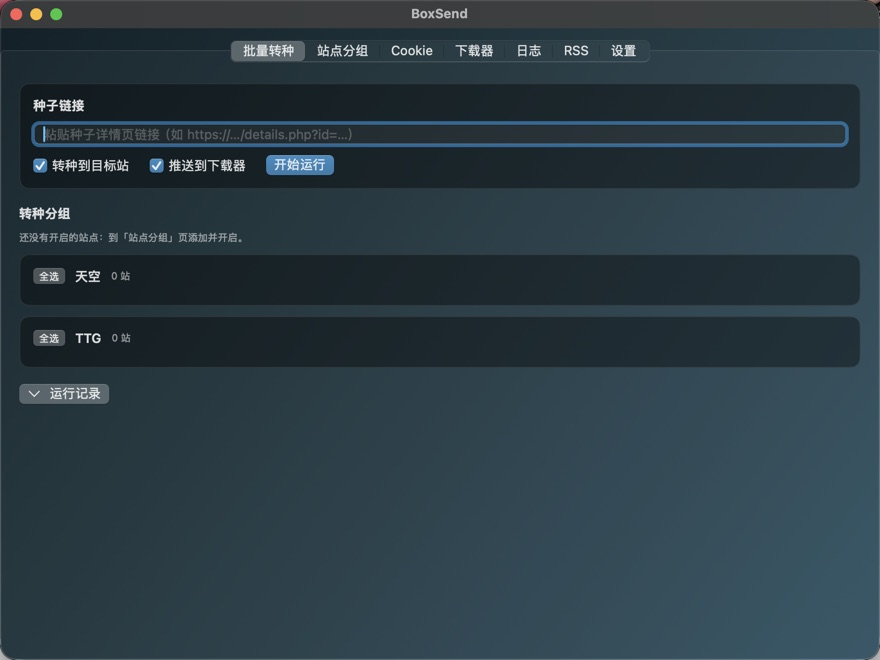
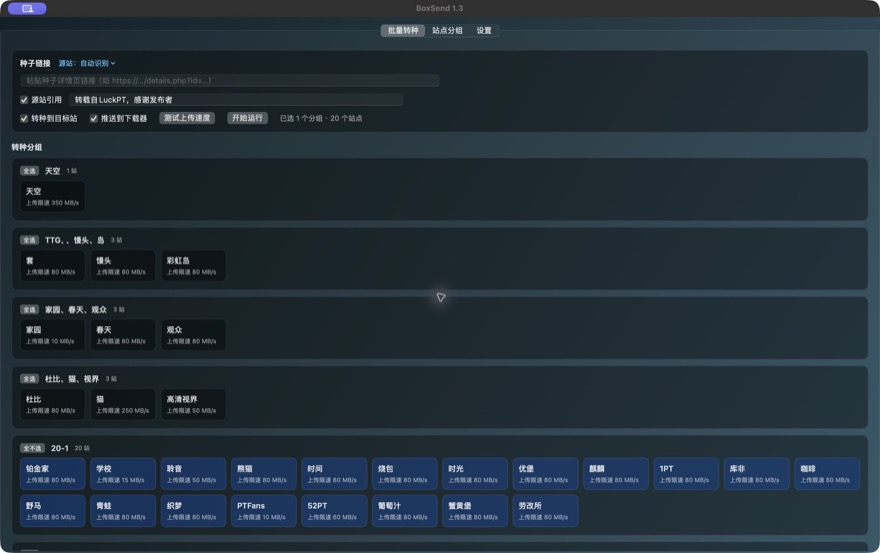
教程配图重拍，并补上 Cloudflare Workers 反代 TMDB 那一节
- 五张配图按当前界面重拍（深空蓝、无壁纸），配置里的地址/密钥换成脱敏示例值
- AppPaths 认 BOXSEND_DATA_DIR：截图和调试可以拿另一份配置跑，不动本机那份
- 第 6 节改写为 TMDB 反查 + 自建网关：de5.net 免费域名注册 → Cloudflare 建站拿 NS
  → 回 dnshe 交子域解析权 → Worker 按前缀反代 api.themoviedb.org → 绑自定义域名；
  附可复制的 Worker 脚本（mac section() 加 code:，Windows Sections 加 Code 字段）

diff --git a/Sources/BoxSendApp/Views.swift b/Sources/BoxSendApp/Views.swift
@@ -3029,13 +3029,32 @@ struct TutorialSheet: View {
                         "「批量转种」页「开始运行」左边有「测试上传速度」：随时点一下，实测速度显示在按钮下面那一行，不做自动判定——速度不理想就等一等再转，不测也能直接开转。",
                         "测速是在服务器上往公网推数据（默认每轮 64 MB、共两轮），只多花这一份上行；测速地址可换成自己的接收端。",
                     ])
-                    section("6. TMDB 链接自动反查", image: nil, steps: [
-                        "部分站点（如杜比）把 TMDB 链接设为必填，源站简介里没有 TMDB 时发种会被拒。",
-                        "「设置」页「TMDB 链接」卡片勾选「发种时自动补 TMDB 链接」：发种前用种子的 IMDb 号或豆瓣号去 TMDB 查条目号，填进目标站的 TMDB 输入框；查不到时留空，由你手动填写。",
-                        "国内直连 api.themoviedb.org 常不通：在「API 代理网关地址」填自己的网关，留空即走官方接口；地址要写到版本号那一层（末尾带 /3，如 https://gw.example.com/tmdb0512/3），漏写会先按你填的试、404 再自动补 /3 重试。",
-                        "网关只是转发时仍要填 TMDB 的 API Key；只有网关自己代填 Key 时才留空。",
-                        "「测试查询」用一条固定片例验证网关是否可用。",
-                    ])
+                    section("6. TMDB 反查与自建网关（Cloudflare Workers）", steps: [
+                        "部分站点（如杜比）把 TMDB 链接设为必填，源站简介里没有 TMDB 时发种会被拒；勾选「发种时自动补 TMDB 链接」后，发种前用种子的 IMDb 号或豆瓣号去查条目号填进目标站，查不到就留空由你手填。",
+                        "国内直连 api.themoviedb.org 常不通，拿自己的网关顶上去：「API 代理网关地址」留空即走官方接口；地址要写到版本号那一层（末尾带 /3，如 https://tmdb.我的名字.de5.net/tmdb0512/3），漏写软件会自动补一次再试。网关只做转发时仍要填 TMDB 的 API Key，只有网关代填 Key 时才留空。",
+                        "① 拿域名：在 my.dnshe.com 注册账号（邮箱 + 密码，点一下邮箱验证），进会员中心「免费域名」申请一个 de5.net 的名字（如 myname，得到 myname.de5.net）；免费域名一年到期要在面板里点一次续期。",
+                        "② 接入 Cloudflare：dash.cloudflare.com 注册后点「Add a site」，主机名填完整那串 myname.de5.net（Cloudflare 允许把这种子域当成一个独立站点/区域），选 Free 计划，它会给你两台 NS，形如 evan.ns.cloudflare.com / irma.ns.cloudflare.com。",
+                        "③ 交出解析权：回 my.dnshe.com 的域名管理，把这两台 NS 填进该域名的独立解析 / NS 托管并保存（父域 de5.net 的 NS 仍是 dnshe 的，靠这条子域 NS 记录把解析权交给 Cloudflare）。等几十分钟后用 dig NS myname.de5.net 验，返回 cloudflare 那两台就是生效了。",
+                        "④ 部署 Worker：Cloudflare 控制台「Workers & Pages → Create → Worker」，把下面这段贴进去 Deploy。UPSTREAM 固定是 TMDB 官方接口，PREFIX 是自己随手起的暗号段（如 /tmdb0512），只有带这个前缀的路径才转发，别人不知道前缀就蹭不动你的额度。",
+                        "⑤ 绑域名：该 Worker 的 Settings → Domains & Routes → Add → Custom domain，填 tmdb.myname.de5.net（主机名 tmdb），Cloudflare 会自动写 CNAME、签 HTTPS 证书，保持橙云（Proxied）即可；证书一般几十秒到几分钟就绪。",
+                        "⑥ 填回软件：网关地址填 https://tmdb.myname.de5.net/tmdb0512/3，点「测试查询」应回成功；浏览器直接打开同地址加 ?query=city&api_key=你的Key 也能出 JSON。不带 Key 会回 401，那说明网关已通、只是缺 Key。",
+                        "Workers 免费版每天 10 万次请求，转种这点查询量远远用不完；域名一年一续，别忘了续。",
+                    ], code: """
+const UPSTREAM = "https://api.themoviedb.org";
+const PREFIX = "/tmdb0512";              // 自己的暗号段，与网关地址里那段保持一致
+export default {
+  async fetch(req, env) {
+    const u = new URL(req.url);
+    if (!u.pathname.startsWith(PREFIX)) return new Response("no", { status: 404 });
+    const url = new URL(UPSTREAM + u.pathname.slice(PREFIX.length) + u.search);
+    const key = env.TMDB_KEY || "";      // 配在 Worker 的 Variables 里；不配就得在软件里填 Key
+    if (key && !url.searchParams.has("api_key")) url.searchParams.set("api_key", key);
+    const r = await fetch(url, { method: req.method, headers: req.headers,
+                                 body: req.body, redirect: "follow" });
+    return new Response(r.body, { status: r.status, headers: r.headers });
+  }
+}
+""")
                     section("7. 软件更新", image: nil, steps: [
                         "更新地址就是项目仓库 https://github.com/nandieling/box-send，「设置」页「软件更新」卡片能看到当前版本并检查新版本。",
                         "默认每次启动在后台查一次（只读 GitHub 的发布接口，不上传任何本机数据）；不想自动查就关掉「启动时自动检查新版本」，改成手动点「检查更新」。",
@@ -3051,7 +3070,7 @@ struct TutorialSheet: View {
                 .padding(2)
             }
             HStack {
-                Text("提示：截图为旧版界面示例，Cookie 与下载器现已并入「设置」页；外观随主题 / 壁纸变化。")
+                Text("提示：截图为深色主题示例，实际外观随「设置」页的主题 / 壁纸变化。")
                     .font(.caption).foregroundStyle(.secondary)
                 Spacer()
                 Button("关闭") { dismiss() }
@@ -3065,7 +3084,7 @@ struct TutorialSheet: View {
         .preferredColorScheme(model.theme.dark ? .dark : .light)
     }
 
-    private func section(_ title: String, image: String? = nil, steps: [String]) -> some View {
+    private func section(_ title: String, image: String? = nil, steps: [String], code: String? = nil) -> some View {
         VStack(alignment: .leading, spacing: 6) {
             Text(title).font(.headline)
             ForEach(Array(steps.enumerated()), id: \.offset) { i, step in
@@ -3075,6 +3094,14 @@ struct TutorialSheet: View {
                     Text(step).font(.footnote).foregroundStyle(.primary)
                         .fixedSize(horizontal: false, vertical: true)
                 }
+            }
+            if let code {
+                Text(code)
+                    .font(.system(.caption2, design: .monospaced))
+                    .textSelection(.enabled)
+                    .padding(8)
+                    .frame(maxWidth: .infinity, alignment: .leading)
+                    .background(RoundedRectangle(cornerRadius: 6).fill(Color.blockSurface(model.theme.dark)))
             }
             if let image {
                 tutorialImage(image)

diff --git a/Sources/BoxSendKit/Models/AppPaths.swift b/Sources/BoxSendKit/Models/AppPaths.swift
@@ -6,6 +6,12 @@ import Foundation
 ///   同目录 cookies.json / state.json / debug/           运行时数据
 public enum AppPaths {
     public static var dir: String {
+        // 开发/演示用的旁路：BOXSEND_DATA_DIR 指个空目录就能拿另一份配置跑，
+        // 不动本机那份（截教程配图时用的就是它）
+        if let over = ProcessInfo.processInfo.environment["BOXSEND_DATA_DIR"], !over.isEmpty {
+            try? FileManager.default.createDirectory(atPath: over, withIntermediateDirectories: true)
+            return over
+        }
         let fm = FileManager.default
         if let u = try? fm.url(for: .applicationSupportDirectory, in: .userDomainMask, appropriateFor: nil, create: true) {
             let base = u.appendingPathComponent("BoxSend", isDirectory: true)

diff --git a/windows/BoxSend.Windows/Dialogs/TutorialWindow.cs b/windows/BoxSend.Windows/Dialogs/TutorialWindow.cs
@@ -7,7 +7,7 @@ namespace BoxSend.Windows.Dialogs;
 /// <summary>使用教程（与 mac 版同一套说明，Windows 上不带配图）。分节写在这里，改一处两端对照着改。</summary>
 public sealed class TutorialWindow : Window
 {
-    private static readonly (string Title, string[] Steps)[] Sections =
+    private static readonly (string Title, string[] Steps, string? Code)[] Sections =
     {
         ("1. 添加站点与分组", new[]
         {
@@ -17,7 +17,7 @@ public sealed class TutorialWindow : Window
             "组内排序：拖卡片右侧的把手拖到另一张卡片上，或在把手左边输入序号回车排到第几位（与 mac 版一致）。",
             "顶部「检测全部 cookie」批量检查 cookie / API Key 有效性，每张卡片上直接显示结果，检测中可「停止检测」；「移除站点」「移除分组」均需两次确认。",
             "支持「帖子免费1天」的站点（如猫站）卡片上会出现「发种后免费一天」开关：打开后发种成功就自动点一次站内免费按钮（要扣站内积分）；帖子已在免费满一天时不重复扣。",
-        }),
+        }, null),
         ("2. Cookie：PT-depiler Gist 与 CookieCloud", new[]
         {
             "两路都是「浏览器插件采集 → 云端存一份密文 → 本软件拉回来」：Gist 存 GitHub，CookieCloud 存自己的服务器。两路互为补充，某一站在一路过期时同步会用另一路补上，本地检测有效的 cookie 不会被覆盖。",
@@ -28,7 +28,7 @@ public sealed class TutorialWindow : Window
             "浏览器装 CookieCloud 扩展（easychen/CookieCloud，Chrome/Edge/Firefox 都能装），设置里填服务器地址，点「上传」后扩展会显示自己的 KEY（一串 UUID）和你设的加密密码。",
             "本软件「CookieCloud 同步」填服务器地址、KEY（UUID）、端对端加密密码（必须与扩展里的密码一致）：拉回 GET {服务器}/get/{KEY} 后在本地解密，再覆盖本地 cookie。",
             "两张卡片的「轮询」最小 5 分钟，打开「自动定时同步」到点自动拉；想立刻拉一次点该卡片的「立即同步」，或到「站点分组」页顶部点「同步 Cookie」两路一起同步，同步完自动复检 cookie。",
-        }),
+        }, null),
         ("3. 批量转种", new[]
         {
             "「批量转种」页粘贴种子详情页链接，勾选「转种到目标站」与「推送到下载器」。",
@@ -37,7 +37,7 @@ public sealed class TutorialWindow : Window
             "按分组顺序执行：获取种子 → 依次上传到组内已开启站点（限速取站点设置，新增时默认跟分组限速）→ 转种成功的种子自动推送到下载器。",
             "需要注明转种来源时勾选「源站引用」并填写文本：软件会把这段文字用引用块加在每个目标站简介最上面；源站自带引用的不用勾。",
             "页面下半部分左栏是逐站转种结果，右栏是下载器推送结果。",
-        }),
+        }, null),
         ("4. 推送到下载器", new[]
         {
             "「设置」页「下载器」填 Web UI 地址、用户名与密码：qBittorrent 要在首选项里打开 Web UI 并取消「仅本机 localhost」，或经 VPS 隧道 / 反向代理暴露出来。",
@@ -46,7 +46,7 @@ public sealed class TutorialWindow : Window
             "保存路径留空用下载器默认目录，分类留空不打标签；「添加后跳过校验」按自己的下载习惯决定。",
             "「VPS 剩余空间」与「超过剩余空间时」的提醒 / 跳过策略是推送前的空间保护：qB WebAPI 读不到磁盘容量，这个数字要自己维护。",
             "转种成功的种子自动推到这台下载器；逐站上传限速在「站点分组」页按分组或站点填。",
-        }),
+        }, null),
         ("5. 转种服务器测速（SSH）", new[]
         {
             "部分服务器 24 小时上传流量到 2T 后，会把上行悄悄压到 20 MB/s 左右：站点照样能发种，但整批下载都变慢。",
@@ -54,28 +54,50 @@ public sealed class TutorialWindow : Window
             "「测试连接并测速」立刻连一次：显示服务器主机名与每轮实测速度。",
             "「批量转种」页「开始运行」左边有「测试上传速度」：随时点一下，实测速度显示在按钮下面那一行，不做自动判定——速度不理想就等一等再转，不测也能直接开转。",
             "测速是在服务器上往公网推数据（默认每轮 64 MB、共两轮），只多花这一份上行；测速地址可换成自己的接收端。",
-        }),
-        ("6. TMDB 链接自动反查", new[]
+        }, null),
+        ("6. TMDB 反查与自建网关（Cloudflare Workers）", new[]
         {
-            "部分站点（如杜比）把 TMDB 链接设为必填，源站简介里没有 TMDB 时发种会被拒。",
-            "「设置」页勾选「发种时自动补 TMDB 链接」：发种前用种子的 IMDb 号或豆瓣号去查条目号，填进目标站的 TMDB 输入框；查不到时留空，由你手动填写。",
-            "国内直连 api.themoviedb.org 常不通：在「API 代理网关地址」填自己的网关，留空即走官方接口；地址要写到版本号那一层（末尾带 /3，如 https://gw.example.com/tmdb0512/3），漏写会先按你填的试、404 再自动补 /3 重试。",
-            "网关只是转发时仍要填 TMDB 的 API Key；只有网关自己代填 Key 时才留空。",
-            "「测试查询」用一条固定片例验证网关是否可用。",
-        }),
+            "部分站点（如杜比）把 TMDB 链接设为必填，源站简介里没有 TMDB 时发种会被拒；勾选「发种时自动补 TMDB 链接」后，发种前用种子的 IMDb 号或豆瓣号去查条目号填进目标站，查不到就留空由你手填。",
+            "国内直连 api.themoviedb.org 常不通，拿自己的网关顶上去：「API 代理网关地址」留空即走官方接口；地址要写到版本号那一层（末尾带 /3，如 https://tmdb.我的名字.de5.net/tmdb0512/3），漏写软件会自动补一次再试。网关只做转发时仍要填 TMDB 的 API Key，只有网关代填 Key 时才留空。",
+            "① 拿域名：在 my.dnshe.com 注册账号（邮箱 + 密码，点一下邮箱验证），进会员中心「免费域名」申请一个 de5.net 的名字（如 myname，得到 myname.de5.net）；免费域名一年到期要在面板里点一次续期。",
+            "② 接入 Cloudflare：dash.cloudflare.com 注册后点「Add a site」，主机名填完整那串 myname.de5.net（Cloudflare 允许把这种子域当成一个独立站点/区域），选 Free 计划，它会给你两台 NS，形如 evan.ns.cloudflare.com / irma.ns.cloudflare.com。",
+            "③ 交出解析权：回 my.dnshe.com 的域名管理，把这两台 NS 填进该域名的独立解析 / NS 托管并保存（父域 de5.net 的 NS 仍是 dnshe 的，靠这条子域 NS 记录把解析权交给 Cloudflare）。等几十分钟后用 dig NS myname.de5.net 验，返回 cloudflare 那两台就是生效了。",
+            "④ 部署 Worker：Cloudflare 控制台「Workers & Pages → Create → Worker」，把下面这段贴进去 Deploy。UPSTREAM 固定是 TMDB 官方接口，PREFIX 是自己随手起的暗号段（如 /tmdb0512），只有带这个前缀的路径才转发，别人不知道前缀就蹭不动你的额度。",
+            "⑤ 绑域名：该 Worker 的 Settings → Domains & Routes → Add → Custom domain，填 tmdb.myname.de5.net（主机名 tmdb），Cloudflare 会自动写 CNAME、签 HTTPS 证书，保持橙云（Proxied）即可；证书一般几十秒到几分钟就绪。",
+            "⑥ 填回软件：网关地址填 https://tmdb.myname.de5.net/tmdb0512/3，点「测试查询」应回成功；浏览器直接打开同地址加 ?query=city&api_key=你的Key 也能出 JSON。不带 Key 会回 401，那说明网关已通、只是缺 Key。",
+            "Workers 免费版每天 10 万次请求，转种这点查询量远远用不完；域名一年一续，别忘了续。",
+        }, WorkerCode),
         ("7. 软件更新", new[]
         {
             "更新地址就是项目仓库 https://github.com/nandieling/box-send，「设置」页「软件更新」卡片能看到当前版本并检查新版本。",
             "默认每次启动在后台查一次（只读 GitHub 的发布接口，不上传任何本机数据）；不想自动查就关掉「启动时自动检查」。",
             "发现新版本点「下载 x.y.z 安装包」，装新的即可：站点、Cookie、限速与主题设置都存在本机，升级不会被动到。",
-        }),
+        }, null),
         ("8. 外观设置", new[]
         {
             "「设置」页选择渐变主题；主题渐变、强调色与明暗模式覆盖窗口、页签与所有弹窗。",
             "可添加背景图片（PNG/JPG）并用滑块调整透明度，不改变窗口与各区块的大小比例。",
             "窗口最大化时顶部页签会自动放大一档，方便远距离点选。",
-        }),
+        }, null),
     };
+
+    /// TMDB 反代 Worker 脚本（与 mac 版教程同一段）
+    private const string WorkerCode = """
+const UPSTREAM = "https://api.themoviedb.org";
+const PREFIX = "/tmdb0512";              // 自己的暗号段，与网关地址里那段保持一致
+export default {
+  async fetch(req, env) {
+    const u = new URL(req.url);
+    if (!u.pathname.startsWith(PREFIX)) return new Response("no", { status: 404 });
+    const url = new URL(UPSTREAM + u.pathname.slice(PREFIX.length) + u.search);
+    const key = env.TMDB_KEY || "";      // 配在 Worker 的 Variables 里；不配就得在软件里填 Key
+    if (key && !url.searchParams.has("api_key")) url.searchParams.set("api_key", key);
+    const r = await fetch(url, { method: req.method, headers: req.headers,
+                                 body: req.body, redirect: "follow" });
+    return new Response(r.body, { status: r.status, headers: r.headers });
+  }
+}
+""";
 
     public TutorialWindow()
     {
@@ -86,7 +108,7 @@ public sealed class TutorialWindow : Window
         Background = PromptWindow.Themed("DialogBackground", "#1F2530");
 
         var body = new StackPanel { Margin = new Thickness(16, 16, 20, 16) };
-        foreach (var (title, steps) in Sections)
+        foreach (var (title, steps, code) in Sections)
         {
             body.Children.Add(new TextBlock
             {
@@ -103,6 +125,22 @@ public sealed class TutorialWindow : Window
                     FontSize = 12.5,
                     Margin = new Thickness(10, 0, 0, 4),
                     Foreground = (Brush)Application.Current.Resources["TextMuted"],
+                });
+            if (code != null)
+                // Worker 脚本单独一块等宽底框，选中就能直接抄走
+                body.Children.Add(new Border
+                {
+                    Background = (Brush)Application.Current.Resources["BlockSurface"],
+                    CornerRadius = new CornerRadius(6),
+                    Padding = new Thickness(8),
+                    Margin = new Thickness(10, 2, 0, 4),
+                    Child = new TextBlock
+                    {
+                        Text = code,
+                        FontFamily = new FontFamily("Consolas, Cascadia Mono, monospace"),
+                        FontSize = 11.5,
+                        TextWrapping = TextWrapping.NoWrap,
+                    },
                 });
             body.Children.Add(new FrameworkElement { Height = 14 });
         }

diff --git a/PORTING-WINDOWS.md b/PORTING-WINDOWS.md
@@ -952,6 +952,28 @@ Windows 侧：
   `名字（卡片标题显示）`、区块标题 `下载器（推送用这一台）`，Windows 同一处按
   `_model.AssistEnabled` 分岔。别在收起状态下还提「用途下拉」——那栏根本不摆。
 
+## 这一轮（教程配图重拍 + Cloudflare Workers 反代 TMDB 那一段）
+
+- 配图五张全部重拍（sites / run / cookies / downloader / settings，880 宽）：不再是你
+  机器上那份真实配置的样子，而是同一份配置的脱敏版（SSH 地址换 198.51.100.24、
+  TMDB 网关换 tmdb.myname.de5.net、CookieCloud 换 cookie.example.com、下载器换
+  qb.myname.de5.net，token/密码一律 demo 值），外观统一设成深空蓝无壁纸，跟页脚那句
+  「截图为深色主题示例」对得上。
+- 拍法：`AppPaths.dir` 认 `BOXSEND_DATA_DIR`（指个空目录就用另一份配置跑，不动本机那份），
+  截图来自 Computer Use 的 `getScreenshot` 返回的 JPEG Buffer，用
+  `await import('node:fs')` 落盘（`{write:true, path}` 那套写到看不见的位置，别再用），
+  滚动用 `scroll(idx,"up"|"down")` 或直接对滚动区做 `performSecondaryAction(idx,"Scroll Down")`。
+  换标签页以后元素序号全变，先重取状态再动手。
+- 教程第 6 节扩成「TMDB 反查与自建网关（Cloudflare Workers）」：my.dnshe.com 注册免费
+  de5.net 域名 → Cloudflare「Add a site」把 `名字.de5.net` 整串当一个区域 → 把 Cloudflare 给的
+  两台 NS 填回 dnshe 的子域 NS 托管（父域 NS 仍是 dnshe，实测 `dig NS 名字.de5.net` 回
+  `*.ns.cloudflare.com`）→ Worker 脚本按 `PREFIX` 前缀转发到 api.themoviedb.org →
+  Settings → Domains & Routes 绑 `tmdb.名字.de5.net`。脚本作为代码块渲染：mac 的
+  `section(...)` 多了 `code:` 参数（放在 `steps:` 后面，Swift 要求实参按声明顺序），
+  Windows 的 `Sections` 元组多带一个 `string? Code`，非空就渲染成等宽底框。
+- 两处教程正文别只改一边：mac `Views.swift` 的 `TutorialSheet` 与 Windows
+  `Dialogs/TutorialWindow.cs` 的 `Sections` 是同一套说明的两个副本。
+
 ## 踩过记在这儿
 
 - 跨边界的字符串由分配它的模块释放：核心里 `strdup`，只能由同模块的 `boxsend_free` 回收。
